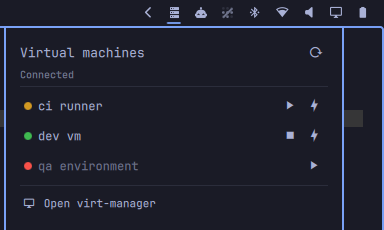
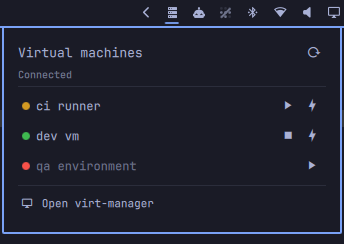
Fix widget width

diff --git a/BarWidget.qml b/BarWidget.qml
@@ -38,7 +38,8 @@ BarWidget {
   readonly property color colorStopped: setting("colorStopped", "#f85149")
 
   // ---- State ----------------------------------------------------------
-  // domains is [{ name, domainState }], sorted running → paused → shut off.
+  // domains is [{ name, domainState }], sorted by name — never by state, so a
+  // row does not move when the domain it names starts or stops.
   property var domains: []
 
   property string lastError: ""
